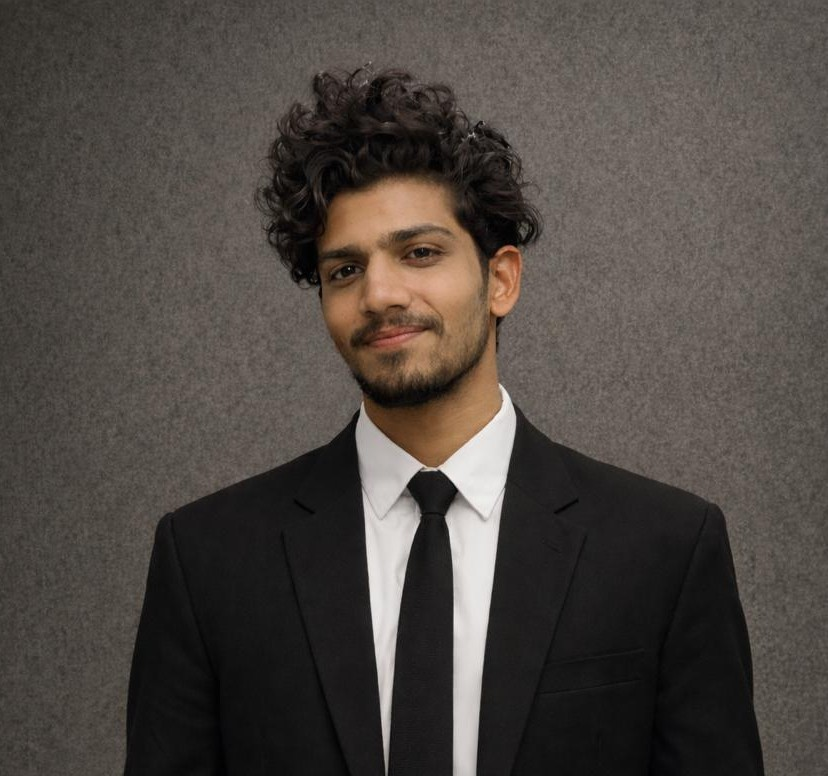
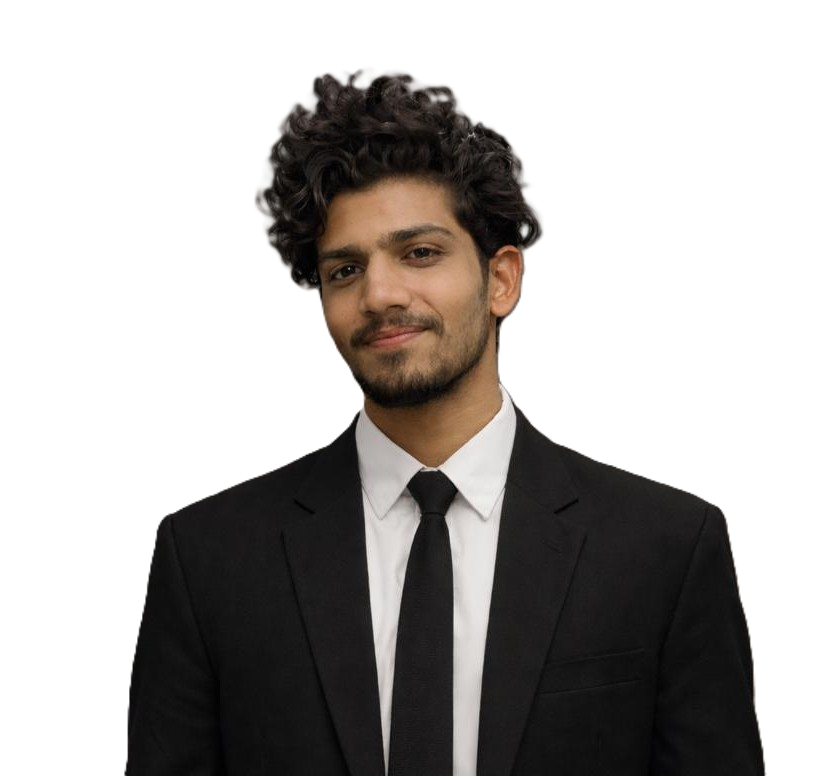
computer bugg done profile changed , mail done skill added

diff --git a/components/Contact.tsx b/components/Contact.tsx
@@ -3,6 +3,7 @@
 import { useEffect } from "react";
 import AOS from "aos";
 import "aos/dist/aos.css";
+import emailjs from "@emailjs/browser";
 
 export default function Contact() {
   useEffect(() => {
@@ -11,84 +12,97 @@ export default function Contact() {
 
   const handleSubmit = (e: React.FormEvent<HTMLFormElement>) => {
     e.preventDefault();
-    alert("This is a temporary form. Submission is disabled.");
+
+    const form = e.currentTarget;
+
+    emailjs
+      .sendForm(
+        "service_5pfpid2",     
+        "template_dam4kbt",  
+        form,
+        "qtuJxG_01ueHLqeJ6"     
+      )
+      .then(
+        () => {
+          alert("Message sent successfully");
+          form.reset();
+        },
+        (error) => {
+          console.error(error);
+          alert("Failed to send message");
+        }
+      );
   };
 
   return (
     <section
       id="contact"
-      className="bg-black transition-all flex items-center justify-center text-white"
+      className="bg-black flex items-center justify-center text-white"
     >
       <div
         data-aos="fade-up"
-        className="bg-black p-6 sm:p-8 md:p-12  shadow-lg w-full max-w-5xl grid grid-cols-1 md:grid-cols-2 gap-6 sm:gap-8"
+        className="bg-black p-6 sm:p-8 md:p-12 shadow-lg w-full max-w-5xl grid grid-cols-1 md:grid-cols-2 gap-6 sm:gap-8"
       >
-        {/* Left Side */}
+        {/* Left */}
         <div className="flex flex-col justify-center">
           <h2 className="text-3xl sm:text-4xl font-bold font-serif mb-4">
             Let’s Connect
           </h2>
           <p className="text-neutral-400 mb-6 text-sm sm:text-base leading-relaxed">
             Have a project in mind or just want to say hello? I’m always open to
-            discussing new ideas or opportunities to be part of your vision.
+            discussing new ideas or opportunities.
           </p>
 
           <div className="space-y-3 text-sm sm:text-base">
-            <p>
-              <span className="font-semibold">Location:</span> Kozhikode, India
-            </p>
-            <p>
-              <span className="font-semibold">Email:</span>{" "}
-              fayizpachu217@gmail.com
-            </p>
-            <p>
-              <span className="font-semibold">Phone:</span> +91 9744850680
-            </p>
+            <p><span className="font-semibold">Location:</span> Kozhikode, India</p>
+            <p><span className="font-semibold">Email:</span> fayizpachu217@gmail.com</p>
+            <p><span className="font-semibold">Phone:</span> +91 9744850680</p>
           </div>
         </div>
 
-        {/* Right Side - Form */}
+        {/* Right - Form */}
         <div className="flex flex-col justify-center">
           <h1 className="text-xl sm:text-2xl font-bold text-center mb-6 font-serif">
             Contact Me
           </h1>
+
           <form onSubmit={handleSubmit} className="space-y-4">
             <div>
-              <label className="block mb-1 font-semibold text-sm sm:text-base">
-                Name
-              </label>
+              <label className="block mb-1 font-semibold">Name</label>
               <input
                 type="text"
+                name="name"
+                required
                 placeholder="Your Name"
-                className="w-full p-2.5 sm:p-3 rounded-lg bg-neutral-800 border border-neutral-700 focus:outline-none focus:ring-2 focus:ring-blue-500 text-sm sm:text-base"
+                className="w-full p-3 rounded-lg bg-neutral-800 border border-neutral-700 focus:outline-none focus:ring-2 focus:ring-blue-500"
               />
             </div>
 
             <div>
-              <label className="block mb-1 font-semibold text-sm sm:text-base">
-                Email
-              </label>
+              <label className="block mb-1 font-semibold">Email</label>
               <input
                 type="email"
+                name="email"
+                required
                 placeholder="Your Email"
-                className="w-full p-2.5 sm:p-3 rounded-lg bg-neutral-800 border border-neutral-700 focus:outline-none focus:ring-2 focus:ring-blue-500 text-sm sm:text-base"
+                className="w-full p-3 rounded-lg bg-neutral-800 border border-neutral-700 focus:outline-none focus:ring-2 focus:ring-blue-500"
               />
             </div>
 
             <div>
-              <label className="block mb-1 font-semibold text-sm sm:text-base">
-                Message
-              </label>
+              <label className="block mb-1 font-semibold">Message</label>
               <textarea
+                name="message"
+                required
                 rows={4}
                 placeholder="Your Message"
-                className="w-full p-2.5 sm:p-3 rounded-lg bg-neutral-800 border border-neutral-700 focus:outline-none focus:ring-2 focus:ring-blue-500 text-sm sm:text-base resize-none"
+                className="w-full p-3 rounded-lg bg-neutral-800 border border-neutral-700 focus:outline-none focus:ring-2 focus:ring-blue-500 resize-none"
               />
             </div>
 
             <button
               type="submit"
-              className="w-full bg-white hover:bg-black text-neutral-800 hover:text-white transition p-2.5 sm:p-3 rounded-lg font-semibold text-sm sm:text-base"
+              className="w-full bg-white hover:bg-black text-neutral-800 hover:text-white transition p-3 rounded-lg font-semibold"
             >
               Send Message
             </button>

diff --git a/components/Skills.tsx b/components/Skills.tsx
@@ -9,14 +9,16 @@ import Image from "next/image";
 const skills = [
   { id: 1, name: "HTML", icon: "/assets/html.png" },
   { id: 2, name: "CSS", icon: "/assets/css.png" },
-  { id: 3, name: "React", icon: "/assets/react.png" },
-  { id: 4, name: "Node.js", icon: "/assets/nodejs.png" },
-  { id: 5, name: "Express.js", icon: "/assets/express.png" },
-  { id: 6, name: "MongoDB", icon: "/assets/mongodb.png" },
-  { id: 7, name: "MySQL", icon: "/assets/mysql.png" },
-  { id: 8, name: "GitHub", icon: "/assets/github.png" },
-  { id: 9, name: "Figma", icon: "/assets/figma.png" },
-  { id: 10, name: "Tailwind CSS", icon: "/assets/tailwind.png" },
+  { id: 3, name: "JavaScript", icon: "/assets/js.png" },
+  { id: 4, name: "React", icon: "/assets/react.png" },
+  { id: 5, name: "Next js", icon: "/assets/nextjs.png", bgClass: "bg-white" },
+  { id: 6, name: "Node.js", icon: "/assets/nodejs.png" },
+  { id: 7, name: "Express.js", icon: "/assets/express.png" },
+  { id: 8, name: "MongoDB", icon: "/assets/mongodb.png" },
+  { id: 9, name: "MySQL", icon: "/assets/mysql.png" },
+  { id: 10, name: "GitHub", icon: "/assets/github.png" },
+  { id: 11, name: "Figma", icon: "/assets/figma.png" },
+  { id: 12, name: "Tailwind CSS", icon: "/assets/tailwind.png" },
 ];
 
 const skillDescriptions: Record<string, string> = {
@@ -30,6 +32,7 @@ const skillDescriptions: Record<string, string> = {
   GitHub: "GitHub: Comfortable with version control, collaboration, branching strategies, and managing repositories for team projects.",
   Figma: "Figma: Adept at designing clean, intuitive interfaces and creating prototypes to visualize UX flows before development.",
   "Tailwind CSS": "Tailwind CSS: Efficient at crafting beautiful, responsive UIs quickly with utility-first classes and consistent design systems.",
+  "Next js": "Next.js: Skilled at building performant, SEO-friendly React apps with SSR, API routes, and optimized routing."
 };
 
 export default function Skills() {
@@ -40,8 +43,14 @@ export default function Skills() {
   }, []);
 
   return (
-    <section id="skills" className="bg-neutral-950 w-full py-28 px-4 md:px-20 lg:px-36 flex flex-col items-center gap-10">
-      <h1 data-aos="fade-up" className="font-bold text-5xl md:text-6xl font-serif text-white mb-10 text-center">
+    <section
+      id="skills"
+      className="bg-neutral-950 w-full py-28 px-4 md:px-20 lg:px-36 flex flex-col items-center gap-10"
+    >
+      <h1
+        data-aos="fade-up"
+        className="font-bold text-5xl md:text-6xl font-serif text-white mb-10 text-center"
+      >
         Skills
       </h1>
 
@@ -54,10 +63,21 @@ export default function Skills() {
             onClick={() => setActiveSkill(skill.name)}
             className="cursor-pointer flex flex-col items-center"
           >
-            <div className="relative w-20 h-20 md:w-24 md:h-24 rounded-xl overflow-hidden shadow-lg hover:shadow-2xl transition">
-              <Image src={skill.icon} alt={skill.name} fill className="object-contain" />
+            <div
+              className={`relative w-20 h-20 md:w-24 md:h-24 rounded-xl overflow-hidden shadow-lg hover:shadow-2xl transition flex items-center justify-center ${
+                skill.bgClass || ""
+              }`}
+            >
+              <Image
+                src={skill.icon}
+                alt={skill.name}
+                fill
+                className="object-contain"
+              />
             </div>
-            <p className="mt-2 text-gray-300 text-sm md:text-base">{skill.name}</p>
+            <p className="mt-2 text-gray-300 text-sm md:text-base">
+              {skill.name}
+            </p>
           </motion.div>
         ))}
       </div>
@@ -71,7 +91,7 @@ export default function Skills() {
           className="mt-10 max-w-2xl text-center px-6"
         >
           <h2 className="text-3xl md:text-4xl font-bold bg-gradient-to-r from-cyan-400 to-teal-300 bg-clip-text text-transparent mb-3">
-            {activeSkill} 
+            {activeSkill}
           </h2>
           <p className="text-gray-400 text-sm md:text-base leading-relaxed">
             {skillDescriptions[activeSkill]}

diff --git a/components/Projects.tsx b/components/Projects.tsx
@@ -36,8 +36,8 @@ const projects = [
     demo: "https://fayis-portfolio-1.onrender.com",
   },
   {
-    title: "Private Chat app",
-    description: "A private chat app built with MERN and socket.io",
+    title: "Private Chat App",
+    description: "A private chat app built with MERN and Socket.IO.",
     image: "https://via.placeholder.com/400x250",
     github: "#",
     demo: "#",
@@ -61,8 +61,11 @@ export default function Projects() {
       id="projects"
       className="bg-black text-white py-16 px-6 md:px-20 lg:px-32 min-h-screen"
     >
+      {/* Heading */}
       <div data-aos="fade-up" className="text-center mb-12">
-        <h2 className="font-bold text-4xl md:text-5xl font-serif">Projects</h2>
+        <h2 className="font-bold text-4xl md:text-5xl font-serif">
+          Projects
+        </h2>
         <p className="mt-4 text-lg text-gray-400">
           A showcase of my work — blending clean code with creative design.
         </p>
@@ -75,28 +78,26 @@ export default function Projects() {
             key={index}
             data-aos="fade-up"
             data-aos-delay={index * 150}
-            className="relative group bg-neutral-950 rounded-xl overflow-hidden shadow-lg hover:shadow-2xl transition duration-300"
+            className="relative bg-neutral-950 rounded-xl overflow-hidden shadow-lg"
           >
-            {/* Mobile top-right button */}
-            <div className="absolute top-3 right-3 z-20">
-              <button className="bg-cyan-500 text-white px-3 py-1 rounded-full text-xs sm:hidden">
-                Info
-              </button>
-            </div>
-
             {/* Image */}
             <Image
               src={project.image}
               alt={project.title}
               width={400}
               height={250}
-              className="w-full h-56 object-cover group-hover:scale-105 transition-transform duration-300"
+              className="w-full h-56 object-cover"
             />
 
-            {/* Hover overlay */}
-            <div className="absolute inset-0 bg-black bg-opacity-70 flex flex-col items-center justify-center text-center opacity-0 group-hover:opacity-100 group-hover:bg-black/90 transition duration-300 p-4">
-              <h3 className="text-xl font-bold mb-2">{project.title}</h3>
-              <p className="text-sm text-gray-300 mb-4">{project.description}</p>
+            {/* Always-visible overlay */}
+            <div className="absolute inset-0 bg-black/80 flex flex-col items-center justify-center text-center p-4">
+              <h3 className="text-xl font-bold mb-2">
+                {project.title}
+              </h3>
+              <p className="text-sm text-gray-300 mb-4">
+                {project.description}
+              </p>
+
               <div className="flex gap-4">
                 <a
                   href={project.github}
@@ -130,7 +131,7 @@ export default function Projects() {
             data-aos-delay={index * 100}
             className={`px-4 py-2 rounded-md text-sm font-medium border ${
               currentPage === index + 1
-                ? "bg-white text-black border-neutral-500 hover:bg-gray-200"
+                ? "bg-white text-black border-neutral-500"
                 : "bg-black text-white border-gray-300 hover:bg-neutral-900"
             }`}
           >

diff --git a/components/About.tsx b/components/About.tsx
@@ -56,18 +56,7 @@ export default function About() {
         </div>
       </div>
 
-      {/* Link to Projects */}
-      <div data-aos="fade-up" className="mt-10 flex justify-center">
-        <Link
-          to="projects"
-          smooth
-          duration={500}
-          offset={-80}
-          className="inline-block px-6 py-3 font-bold bg-white text-black rounded-full cursor-pointer hover:bg-black hover:text-white transition"
-        >
-          Projects
-        </Link>
-      </div>
+      
     </section>
   );
 }

diff --git a/components/Header.tsx b/components/Header.tsx
@@ -5,7 +5,7 @@ import { Link } from "react-scroll";
 import { Menu, X } from "lucide-react";
 import { motion, AnimatePresence } from "framer-motion";
 import Image from "next/image";
-import me from "@/public/Me.png";
+import me from "@/public/images/profile.png";
 // ok
 export default function Header() {
   const [show, setShow] = useState(true);

diff --git a/components/canvas/Computers.tsx b/components/canvas/Computers.tsx
@@ -10,8 +10,8 @@ const Computers = () => {
     <primitive
       object={scene}
       scale={0.8}
-      position={[0, -0.5, 0]}
-      rotation={[0, Math.PI / 4, 0]} // FIXED: radians, not degrees
+      position={[0, -0.9, 0]}
+      rotation={[0, -Math.PI / 4, 0]} 
     />
   );
 };

diff --git a/components/HomeClient.tsx b/components/HomeClient.tsx
@@ -2,7 +2,7 @@
 
 import { useState, useEffect } from "react";
 import Image from "next/image";
-import me from "@/public/Me.png";
+import me from "@/public/images/profile.png";
 import Header from "./Header";
 import About from "./About";
 import Projects from "./Projects";
